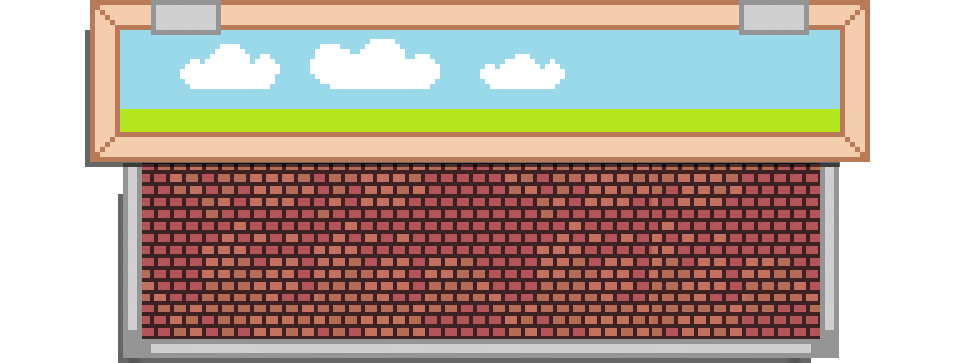
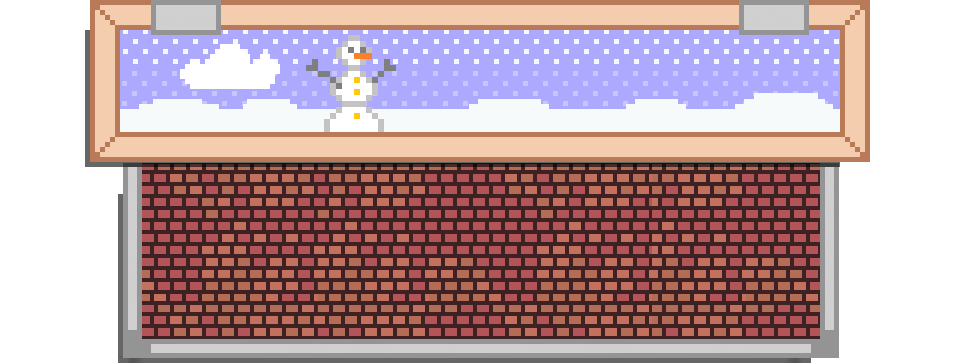
Add winter

Changed region(s): [[0.125, 0.0606, 0.875, 0.3636]]

diff --git a/css/main.css b/css/main.css
@@ -253,7 +253,7 @@ footer
 .cow 
 {
 position: relative;
-margin-left: 320px;
+margin-left: 240px;
 margin-top: -105px;
 }
 .cow img
